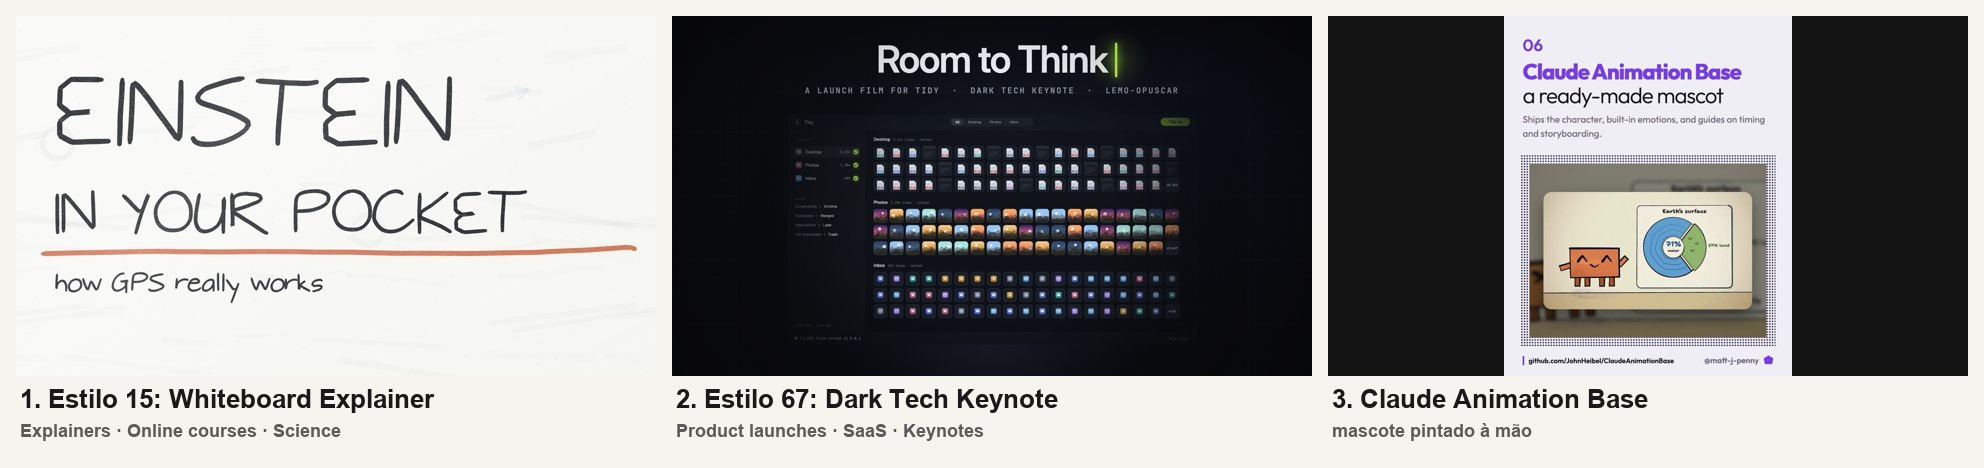
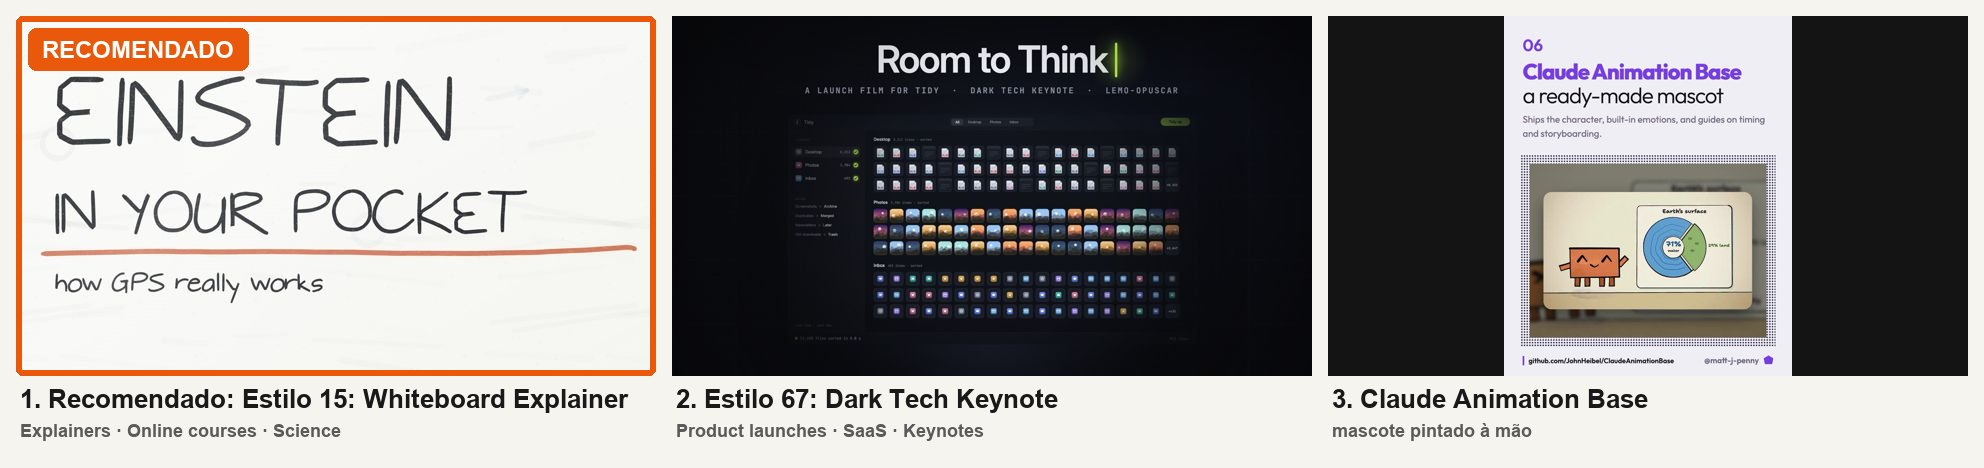
Adiciona HyperFrames, One Take, Collage B-roll e documentário longo
- Três ferramentas novas com imagem e créditos; One Take com aviso de
  licença não comercial e Collage B-roll como opção paga (Gemini)
- Receita de documentário longo com mapas
- 69 prompts da Applied AI citados na skill video-prompts
- A opção 1 das sugestões é sempre a recomendada para o tema

Changed region(s): [[0.0, 0.0299, 0.3438, 0.8974]]

diff --git a/motion_turbo.py b/motion_turbo.py
@@ -49,6 +49,10 @@ FERRAMENTAS = {
     "postprocessing": ("08-react-postprocessing.jpg", "React Postprocessing", "brilho, grão, glitch"),
     "librosa": ("09-librosa.jpg", "librosa", "cortes na batida da música"),
     "shotcraft": ("10-video-shotcraft.jpg", "Video ShotCraft", "promo de produto/app"),
+    "hyperframes": ("11-hyperframes.jpg", "HyperFrames", "textos animados, motion graphics, legendas"),
+    "onetake": ("12-onetake.jpg", "One Take", "lançamento sem cortes (uso não comercial)"),
+    "collage": ("13-collage-broll.jpg", "Collage B-roll", "colagem de papel sob a fala (pago: Gemini)"),
+    "documentario": ("14-documentario-mapas.jpg", "Documentário de mapas", "vídeo longo com mapas animados"),
 }
 POSTER_URL = "https://raw.githubusercontent.com/lemomo-ai/lemo-opuscar/main/styles/{slug}/poster.jpg"
 
@@ -173,6 +177,29 @@ def verificar(a):
     px = (SKILLS / "pixelfx" / "SKILL.md").exists() or "pixelfx@" in plugins
     add("OK" if px else "FALTA", "PixelFX (skill)", "instalado" if px else "não instalado",
         "claude plugin marketplace add patch-gg/pixelfx && claude plugin install pixelfx@pixelfx")
+    hf = (SKILLS / "hyperframes" / "SKILL.md").exists() or "hyperframes@" in plugins
+    add("OK" if hf else "FALTA", "HyperFrames (skill)", "instalado" if hf else "não instalado",
+        "claude plugin marketplace add heygen-com/hyperframes && claude plugin install hyperframes@hyperframes")
+    if hf and tem("node"):
+        _, v = rodar(["node", "-v"])
+        try:
+            if int(v.strip().lstrip("v").split(".")[0]) < 22:
+                add("AVISO", "HyperFrames: Node 22+", f"{v.strip()} instalado; a HyperFrames pede Node 22 ou mais novo")
+        except Exception:
+            pass
+    ot = (SKILLS / "onetake" / "SKILL.md").exists()
+    add("OK" if ot else "FALTA", "One Take (skill)", "instalado (grátis só para uso não comercial)" if ot else "não instalado",
+        "git clone --depth 1 https://github.com/feitangyuan/onetake.git ~/.claude/skills/onetake")
+    if ot:
+        rc, _ = rodar([sys.executable, "-c", "import playwright, matplotlib"])
+        add("OK" if rc == 0 else "FALTA", "One Take: dependências Python", "playwright e matplotlib ok" if rc == 0 else
+            "faltam playwright e/ou matplotlib",
+            f'"{sys.executable}" -m pip install playwright matplotlib && "{sys.executable}" -m playwright install chromium')
+    col = (SKILLS / "gbro-collage-broll" / "SKILL.md").exists()
+    gem = bool(os.environ.get("GEMINI_API_KEY"))
+    add("OK" if col and gem else "DICA", "Collage B-roll (opcional, PAGO)",
+        "instalado e com chave do Gemini" if col and gem else
+        "não instalado de propósito: cobra por vídeo na API do Gemini; só instalar se o usuário aceitar o custo")
     rc, out = rodar(["claude", "mcp", "get", "blender"], timeout=120)
     add("OK" if rc == 0 else "FALTA", "Blender MCP (conector)", "configurado" if rc == 0 else "não configurado",
         "uvx mcp-for-blender setup   (instala o addon no Blender e adiciona o MCP; depois reabrir o app)")
@@ -315,6 +342,10 @@ def mostrar(a):
     from PIL import Image, ImageDraw
     estilos = {e["slug"]: e for e in json.loads((PACOTE / "estilos.json").read_text(encoding="utf-8"))}
     itens = []
+    # a recomendada pode ser uma ferramenta: --primeiro ferramenta coloca as ferramentas antes dos estilos
+    ordem = ["ferramentas", "estilos"] if a.primeiro == "ferramenta" else ["estilos", "ferramentas"]
+    blocos = {"estilos": [], "ferramentas": []}
+    itens = blocos["estilos"]
     for s in a.estilos or []:
         e = estilos.get(s)
         if not e:
@@ -326,7 +357,11 @@ def mostrar(a):
         if f not in FERRAMENTAS:
             print(f"ferramenta desconhecida: {f} (opções: {', '.join(FERRAMENTAS)})"); continue
         arq, nome, desc = FERRAMENTAS[f]
-        itens.append((PACOTE / "imagens" / arq, nome, desc))
+        blocos["ferramentas"].append((PACOTE / "imagens" / arq, nome, desc))
+    itens = blocos[ordem[0]] + blocos[ordem[1]]
+    if itens and not a.sem_recomendado:
+        p0, t0, d0 = itens[0]
+        itens[0] = (p0, f"Recomendado: {t0}", d0)
     if not itens:
         print("nada para mostrar"); return 1
     tw, th, lh, pad = 640, 360, 76, 16
@@ -339,6 +374,10 @@ def mostrar(a):
         im = Image.open(p).convert("RGB")
         im.thumbnail((tw, th)); bg = Image.new("RGB", (tw, th), (20, 20, 20))
         bg.paste(im, ((tw - im.width) // 2, (th - im.height) // 2)); img.paste(bg, (x, y))
+        if i == 0 and not a.sem_recomendado:  # etiqueta da opção recomendada
+            d.rounded_rectangle([x, y, x + tw - 1, y + th - 1], radius=6, outline=(234, 88, 12), width=6)
+            d.rounded_rectangle([x + 12, y + 12, x + 232, y + 54], radius=8, fill=(234, 88, 12))
+            d.text((x + 26, y + 20), "RECOMENDADO", fill=(255, 255, 255), font=fonte(24))
         d.text((x + 4, y + th + 8), f"{i + 1}. {t1}", fill=(25, 25, 25), font=f1)
         d.text((x + 4, y + th + 44), t2, fill=(90, 90, 90), font=f2)
     saida = Path(a.saida or "motion-turbo-sugestoes.jpg").resolve()
@@ -354,6 +393,9 @@ def main():
     m = sub.add_parser("instalar-modelos"); m.add_argument("--repos", required=True)
     s = sub.add_parser("mostrar"); s.add_argument("--estilos", nargs="*"); s.add_argument("--ferramentas", nargs="*")
     s.add_argument("--saida")
+    s.add_argument("--primeiro", choices=["estilo", "ferramenta"], default="estilo",
+                   help="o que vem primeiro (a opção 1 é a recomendada)")
+    s.add_argument("--sem-recomendado", action="store_true", help="não marcar a opção 1 como recomendada")
     a = p.parse_args()
     sys.exit({"verificar": verificar, "instalar-modelos": instalar_modelos, "mostrar": mostrar}[a.cmd](a))
 

diff --git a/SKILL.md b/SKILL.md
@@ -1,11 +1,11 @@
 ---
 name: motion-turbo
-description: Motion Turbo, o kit de 10 ferramentas open source que deixa o motion feito pelo Claude com cara de estúdio (99 estilos de filme do Lemo Opuscar, 3D com Three.js e Blender, física, brilho/glitch, pixel art, mascote pintado à mão, cortes na batida e promos de produto). Use quando pedirem "motion turbo", "/motion-turbo", "quero um vídeo em motion e não sei o estilo", "me sugere um estilo de vídeo", "qual ferramenta uso pra esse vídeo", "mostra os estilos", ou para instalar/verificar o pacote ("instala o motion turbo", "o motion turbo está funcionando?").
+description: Motion Turbo, o kit de ferramentas open source que deixa o motion feito pelo Claude com cara de estúdio (99 estilos de filme do Lemo Opuscar, HyperFrames, One Take, 3D com Three.js e Blender, física, brilho/glitch, pixel art, mascote pintado à mão, cortes na batida, promos de produto, colagem B-roll e documentário longo com mapas). Use quando pedirem "motion turbo", "/motion-turbo", "quero um vídeo em motion e não sei o estilo", "me sugere um estilo de vídeo", "qual ferramenta uso pra esse vídeo", "mostra os estilos", ou para instalar/verificar o pacote ("instala o motion turbo", "o motion turbo está funcionando?").
 ---
 
 # Motion Turbo
 
-Kit que junta 10 repositórios open source para fazer vídeos em motion com o Claude. O trabalho desta skill é **ser a porta de entrada**: entender o tema, sugerir o caminho e o estilo, mostrar imagens das opções e só então passar para a skill que executa.
+Kit que junta 13 ferramentas open source (as 10 do post original, mais HyperFrames, One Take e Collage B-roll) e receitas, como o documentário longo com mapas, para fazer vídeos em motion com o Claude. O trabalho desta skill é **ser a porta de entrada**: entender o tema, sugerir o caminho e o estilo, mostrar imagens das opções e só então passar para a skill que executa.
 
 ## Fale com quem não é técnico
 
@@ -52,7 +52,13 @@ Se o projeto atual tiver identidade visual ou regras (CLAUDE.md, memórias), use
 
 ## 3. Sugerir 3 opções
 
-Monte **3 opções diferentes entre si** (não três variações do mesmo). Cada opção = caminho + estilo + por que combina, em 1 a 2 linhas. Use esta tabela para escolher o caminho:
+**Sempre recomende o melhor estilo para o tema.** Monte **3 opções diferentes entre si** (não três variações do mesmo), e a **opção 1 é sempre a sua recomendação**, marcada como "Recomendado", com o motivo em uma frase ("combina com o tema porque..."). As outras duas são alternativas reais (outro tom, outro caminho). Cada opção = caminho + estilo + por que combina, em 1 a 2 linhas.
+
+- Para escolher a recomendada, pese: o que o tema pede (explicar, vender, emocionar), a plataforma e a duração, o material que a pessoa tem (telas, voz, marca), a licença e o custo (prefira o grátis) e o tempo de render.
+- Se a pessoa já disse um estilo, respeite. Mas, se outro combinar claramente melhor com o tema, diga em uma frase e deixe ela decidir ("posso fazer em X como você pediu; para esse tema, Y costuma funcionar melhor porque...").
+- Se ela disser "escolhe você", siga direto com a recomendada, sem perguntar de novo.
+
+Use esta tabela para escolher o caminho:
 
 | Objetivo / tema | Caminho (skill que executa) | Estilos do Lemo que costumam combinar |
 |---|---|---|
@@ -62,6 +68,10 @@ Monte **3 opções diferentes entre si** (não três variações do mesmo). Cada
 | Notícia, geopolítica, clima, mapa | `lemo-opuscar` | `caption-news`, `news-package`, `map-explainer`, `satellite-briefing`, `comic-history` |
 | História, época, curiosidade histórica | `lemo-opuscar` | `newsreel`, `vintage-collage`, `archive-lighttable`, `dark-documentary`, `silent-film` |
 | Lançar app/SaaS/site | `video-shotcraft` (+ `librosa` para cortar na batida) | `dark-keynote`, `desktop-flythrough`, `living-screencast`, `hologram-hud` |
+| Lançamento "sem cortes", câmera contínua, demo de recurso | `onetake` (**só uso não comercial**, ver abaixo) | — |
+| Textos animados, legendas, motion graphics sobre um vídeo falado, vinhetas | `hyperframes` | — |
+| B-roll artístico de colagem de papel por baixo da fala | `gbro-collage-broll` (**pago**: Gemini; só com ok) | — |
+| Documentário longo (10 a 60 min) de história ou geografia | receita "Documentário longo com mapas" (abaixo) | `map-explainer`, `comic-history`, `dark-documentary`, `newsreel` |
 | Lançar produto físico / beleza / tech | `video-shotcraft` ou `lemo-opuscar` | `glass-product`, `teardown`, `dark-keynote` |
 | História fofa, infantil, mascote | `claude-animation-base` (Clawd) ou `lemo-opuscar` | `crayon-book`, `paper-popup`, `firefly-pointillism`, `rubber-hose` |
 | Emoção, música, arte, viagem | `lemo-opuscar` (+ `librosa`) | `impasto`, `watercolor`, `ukiyoe`, `silhouette-rhythm`, `double-exposure` |
@@ -82,8 +92,8 @@ python ~/.claude/skills/motion-turbo/motion_turbo.py mostrar \
   --saida "<pasta-de-trabalho>/motion-turbo-sugestoes.jpg"
 ```
 - `--estilos`: slugs do `estilos.json` (usa o pôster do estilo).
-- `--ferramentas`: `lemo`, `threejs`, `pixelfx`, `blender`, `prompts`, `clawd`, `rapier`, `postprocessing`, `librosa`, `shotcraft` (usa a imagem da ferramenta).
-- A imagem numera as opções 1, 2, 3 na ordem passada. Mantenha a mesma numeração no texto.
+- `--ferramentas`: `lemo`, `threejs`, `pixelfx`, `blender`, `prompts`, `clawd`, `rapier`, `postprocessing`, `librosa`, `shotcraft`, `hyperframes`, `onetake`, `collage`, `documentario` (usa a imagem da ferramenta).
+- A imagem numera as opções 1, 2, 3 na ordem: primeiro os `--estilos`, depois as `--ferramentas`. **Passe a recomendada primeiro**: ela sai com a etiqueta "RECOMENDADO". Se a recomendada for uma ferramenta (ex.: `onetake`), use `--primeiro ferramenta`. Mantenha a mesma numeração no texto.
 
 Mostre a imagem ao usuário com a ferramenta de enviar/exibir arquivos que a sessão tiver. Se não houver nenhuma, abra a imagem você mesmo para conferir e informe o caminho clicável. Junto, escreva para cada opção:
 - **Nome em português** do estilo + caminho (qual skill vai fazer).
@@ -100,12 +110,31 @@ Passe para a skill do caminho escolhido e siga as regras dela:
 |---|---|
 | Estilos de filme | `lemo-opuscar` (diga o estilo escolhido pelo nome/slug) |
 | Promo de produto/app | `video-shotcraft` |
+| Lançamento sem cortes | `onetake` |
+| Textos animados, legendas, motion graphics em HTML | `hyperframes` (+ `hyperframes-cli`, `hyperframes-registry`) |
+| Colagem B-roll | `gbro-collage-broll` (só depois do ok do custo) |
+| Documentário longo | receita abaixo |
 | Mascote pintado à mão | `claude-animation-base` |
 | Pixel art / efeitos | `pixelfx` |
 | 3D com física, brilho, grão | `r3f-fisica-pos` (+ Three.js no projeto) |
 | Cena no Blender | skills de Blender + MCP `blender` |
 | Ideias/prompts prontos | `video-prompts` |
 | Cortes na batida | `librosa` (Python): `librosa.beat.beat_track` na música, e use os tempos das batidas para os cortes |
+
+### Licenças e custos que exigem pergunta antes
+
+- **One Take:** grátis só para **uso não comercial** (licença PolyForm Noncommercial). Antes de usar, pergunte: "esse vídeo é para cliente, empresa ou venda?". Se for, diga que o uso comercial pede a licença **onetake Pro (US$ 79, pagamento único, onetakemotion.com)** e ofereça como alternativa grátis `video-shotcraft` ou `hyperframes`.
+- **Collage B-roll:** cada vídeo é gerado pela API do **Gemini** e **cobrado por uso** na conta Google do usuário. Ela também foi feita para o Codex, que gera as imagens paradas com uma ferramenta própria; no Claude, essa etapa precisa de outro gerador de imagem (também pode ser pago). Explique isso, dê a estimativa de custo e só instale ou use com o ok. A chave `GEMINI_API_KEY` é configurada pelo próprio usuário, nunca colada no chat.
+
+## Receita: documentário longo com mapas (10 a 60 min)
+
+Inspirada no fluxo "um tema, um documentário de 1 hora" (@classified.ai). Bom para história, geopolítica e geografia.
+1. **Um tema** ("Como o Império Otomano ficou tão grande?"). Pergunte duração, idioma, formato (16:9 para YouTube) e o tom.
+2. **Pesquisa e roteiro:** linha do tempo, batalhas, personagens e mapas. Divida em **capítulos de 3 a 6 min** e cada capítulo em cenas de 10 a 30 s. Mostre o roteiro e espere o ok. Cite fontes no fim do roteiro.
+3. **Cada cena em código:** mapa animado (fronteiras crescendo, exércitos em setas, ano no canto, retratos em círculo). Use o estilo `map-explainer` ou `comic-history` do `lemo-opuscar`, ou a `hyperframes` com mapas e legendas. Faça uma cena de amostra parada e espere o ok do visual.
+4. **Narração:** a voz do próprio usuário (gravada pelo celular) ou narração local grátis (voz do Lemo). Voz profissional paga só com ok do custo. Legende com Whisper.
+5. **Ajustes em uma frase:** "deixa o mapa noturno", "mais lento no capítulo 3". Mude o estilo global e renderize de novo só o que mudou.
+6. **Render por capítulo** (um MP4 por capítulo, depois junta com ffmpeg). Um vídeo de 1 hora tem ~108 mil quadros: avise que pode levar horas e rode em segundo plano.
 
 ## 6. Sugerir o que falta para um vídeo melhor
 
@@ -128,6 +157,7 @@ O vídeo fica muito melhor com material do próprio cliente e com alguns extras 
 - **Trilha gerada grátis** (música do Lemo) quando não há música.
 - **Legendas automáticas** (Whisper) quando há narração; vídeo curto de rede social quase sempre ganha com legenda.
 - **Blender** só se a escolha for cena 3D realista.
+- **Collage B-roll** (pago) quando a pessoa tem vídeo falando para a câmera e quer cortes artísticos por cima.
 - **Sem placa de vídeo dedicada:** avise que estilos de aquarela e 3D pesado demoram mais e ofereça um teste curto ou um estilo mais leve.
 
 Como sugerir: "Para ficar ainda melhor, posso **[extra]** ([ganho]). É grátis e leva uns [tempo] para instalar. Quer?" Só instale com o sim da pessoa. Tudo que for pago (voz profissional, imagem ou vídeo gerado por serviço externo) exige dizer o serviço e o custo e esperar o ok.

diff --git a/README.md b/README.md
@@ -2,7 +2,7 @@
 
 > **Novo por aqui e não é da área técnica?** Comece pelo [COMECE-AQUI.md](COMECE-AQUI.md).
 
-**10 ferramentas open source que deixam o motion feito pelo Claude com cara de estúdio.**
+**13 ferramentas open source e receitas que deixam o motion feito pelo Claude com cara de estúdio.**
 
 São estilos de filme prontos, 3D de verdade, física, brilho e glitch, pixel art, um mascote pintado à mão, cortes no ritmo da música e receitas de vídeo de lançamento. Tudo grátis, rodando no seu computador, disponível em qualquer sessão do Claude Code.
 
@@ -14,7 +14,7 @@ Abra qualquer sessão e diga:
 
 O Claude então:
 1. **Pergunta o tema**, o objetivo (explicar, vender, contar história), o formato (vertical ou horizontal) e a duração.
-2. **Sugere 3 caminhos** diferentes, cada um com o estilo e o motivo.
+2. **Sugere 3 caminhos** diferentes, cada um com o estilo e o motivo. A opção 1 é sempre **a recomendada para o seu tema** (etiqueta RECOMENDADO).
 3. **Mostra uma imagem** com as 3 opções numeradas, para você escolher olhando.
 4. Com a sua escolha, **chama a ferramenta certa**, mostra roteiro e um quadro parado e só depois renderiza.
 
@@ -85,6 +85,32 @@ Encontra as batidas da música e sincroniza os cortes com elas. É o que dá a "
 O Claude escolhe o melhor modelo para o lançamento do seu app ou site, usa telas reais, sincroniza com a música e põe efeitos sonoros.
 **Peça:** "um vídeo de lançamento de 20s do meu site". · [repo](https://github.com/Vincentwei1021/video-shotcraft)
 
+### 11 · HyperFrames: vídeo a partir de HTML
+![HyperFrames](imagens/11-hyperframes.jpg)
+*Imagem: do repositório da HyperFrames (HeyGen, Apache 2.0). Créditos completos em [CREDITOS.md](CREDITOS.md).*
+Textos animados, motion graphics, legendas e vinhetas, inclusive por cima de um vídeo seu falando. É o "editor" mais versátil do kit.
+**Peça:** "coloca títulos animados e legendas no meu vídeo falando". · [repo](https://github.com/heygen-com/hyperframes)
+
+### 12 · One Take: lançamento sem cortes
+![One Take](imagens/12-onetake.jpg)
+*Imagem: quadros do filme de lançamento do One Take (feitangyuan). Créditos completos em [CREDITOS.md](CREDITOS.md).*
+Um filme em que a câmera nunca corta: cada cena nasce da anterior. Ótimo para lançamento de app e demonstração de recurso.
+**Licença:** grátis só para **uso não comercial**. Para cliente ou empresa, existe a licença Pro (US$ 79, pagamento único).
+**Peça:** "um vídeo de 20s sem cortes mostrando o meu app". · [repo](https://github.com/feitangyuan/onetake)
+
+### 13 · Collage B-roll: colagem de papel por baixo da fala (opcional, pago)
+![Collage B-roll](imagens/13-collage-broll.jpg)
+*Imagem: demos do repositório gbro-collage-broll (pyang5166, MIT). Créditos completos em [CREDITOS.md](CREDITOS.md).*
+Você passa uma frase do roteiro e ela vira uma colagem animada de papel e foto, para pôr por baixo da sua fala.
+**Custo:** usa a API do Gemini, cobrada por vídeo. O Claude avisa o custo e só instala com o seu ok.
+**Peça:** "transforma essa frase numa colagem animada de 5s". · [repo](https://github.com/pyang5166/gbro-collage-broll)
+
+### 14 · Receita: documentário longo com mapas
+![Documentário com mapas](imagens/14-documentario-mapas.jpg)
+*Imagem: slides do carrossel de Nitin Chougale ([@classified.ai](https://www.instagram.com/p/DfbleGMiSJm/)). Créditos completos em [CREDITOS.md](CREDITOS.md).*
+Um tema vira um documentário de 10 a 60 minutos: pesquisa, roteiro por capítulos, mapas animados em código, narração com a sua voz ou voz local e render por capítulo.
+**Peça:** "um documentário de 20 minutos sobre como o Império Otomano cresceu".
+
 ## Os 99 estilos do Lemo Opuscar
 
 ![Catálogo de estilos](imagens/catalogo-estilos-lemo.jpg)
@@ -96,7 +122,8 @@ O pôster de cada estilo está em `imagens/estilos/<nome>.jpg`, e a lista comple
 
 1. **Estilo e ideia:** Lemo Opuscar, prompt packs, PixelFX, Clawd.
 2. **Cena 3D e efeitos:** Three.js, Blender MCP, React Rapier, React Postprocessing.
-3. **Ritmo e entrega:** librosa e Video ShotCraft, até o MP4 final.
+3. **Ritmo e entrega:** librosa, Video ShotCraft, HyperFrames e One Take, até o MP4 final.
+4. **Extras:** Collage B-roll (pago) e a receita de documentário longo.
 
 ## Instalação
 
@@ -116,6 +143,7 @@ python ~/.claude/skills/motion-turbo/motion_turbo.py verificar
 
 Este pacote só organiza e instala ferramentas de outras pessoas. Todo o crédito vai para elas:
 - **Ferramentas:** os autores de cada repositório linkado acima.
+- **Imagens 11–14:** HyperFrames (HeyGen), One Take (feitangyuan), gbro-collage-broll (pyang5166) e carrossel de Nitin Chougale ([@classified.ai](https://www.instagram.com/p/DfbleGMiSJm/)). Ferramentas 11–13 apresentadas no reel de [Fabiano Carvalho](https://www.instagram.com/reel/Dff5HhgDeZM/); mais prompts em [Applied AI](https://www.its-applied-ai.com/r/styles).
 - **Lista das 10 ferramentas e imagens 01–10:** carrossel de **Matt Penny** ([@matt_penny_applied_ai](https://www.instagram.com/p/DftA9zwk4Re/)).
 - **Pôsteres e catálogo de estilos:** Lemo-Opuscar © 2026 Lemomo (LemoLab), CC BY 4.0.
 - **Clawd** (o personagem laranja) é da Anthropic.

diff --git a/CREDITOS.md b/CREDITOS.md
@@ -17,6 +17,9 @@ O Motion Turbo é só um guia e um instalador. As ferramentas, as imagens e os e
 | React Postprocessing | Poimandres (pmndrs) | https://github.com/pmndrs/react-postprocessing |
 | librosa | equipe librosa | https://github.com/librosa/librosa |
 | Video ShotCraft | Vincentwei1021 | https://github.com/Vincentwei1021/video-shotcraft |
+| HyperFrames | HeyGen (Apache 2.0) | https://github.com/heygen-com/hyperframes |
+| One Take | Patrick (feitangyuan); PolyForm Noncommercial 1.0.0, uso comercial pela licença onetake Pro | https://github.com/feitangyuan/onetake |
+| gbro-collage-broll | pyang5166 (MIT) | https://github.com/pyang5166/gbro-collage-broll |
 
 ## Imagens das ferramentas (`imagens/01-…jpg` a `imagens/10-…jpg`)
 
@@ -25,6 +28,15 @@ São quadros do carrossel **"10 GitHub repos to 10x your AI motion graphics"**, 
 Todos os direitos são do autor. Elas aparecem aqui só para ilustrar e dar referência, com crédito e link para o post original. Foi esse post que reuniu a lista das 10 ferramentas.
 
 Os vídeos de demonstração dentro desses quadros foram feitos com as ferramentas listadas acima. O personagem laranja (Clawd) que aparece na imagem 06 é da Anthropic.
+
+## Imagens 11 a 14 e fontes da segunda leva
+
+- `imagens/11-hyperframes.jpg`: quadro do GIF de apresentação do repositório HyperFrames, © HeyGen, Apache 2.0.
+- `imagens/12-onetake.jpg`: quadros do filme de lançamento do One Take (`assets/hero.gif`), © Patrick (feitangyuan), material do repositório sob PolyForm Noncommercial 1.0.0.
+- `imagens/13-collage-broll.jpg`: último quadro dos 4 GIFs de demonstração do gbro-collage-broll, © pyang5166, MIT.
+- `imagens/14-documentario-mapas.jpg`: slides 1, 5 e 7 do carrossel "Make 1-hour documentaries with Claude Code", de **Nitin Chougale (@classified.ai)**: https://www.instagram.com/p/DfbleGMiSJm/ . Todos os direitos são do autor; aparecem aqui só como referência, com crédito.
+- HyperFrames, One Take e Collage B-roll foram apresentadas no reel de **Fabiano Carvalho (@fabianocarvalhojr)**: https://www.instagram.com/reel/Dff5HhgDeZM/
+- A página **"69 Claude Animation Styles"** da **Applied AI** (https://www.its-applied-ai.com/r/styles) está citada na skill `video-prompts` como fonte de prompts. Nada dela foi copiado para este repositório.
 
 ## Pôsteres dos estilos (`imagens/estilos/*.jpg` e `imagens/catalogo-estilos-lemo.jpg`)
 

diff --git a/COMECE-AQUI.md b/COMECE-AQUI.md
@@ -41,7 +41,7 @@ Numa conversa nova, escreva algo como:
 
 O Claude vai:
 1. **Fazer até 4 perguntas rápidas:** o tema, o objetivo (explicar, vender, contar uma história), o formato (vertical para Reels/Shorts ou horizontal) e se você tem logo, cores, narração ou música.
-2. **Sugerir 3 caminhos diferentes**, cada um com um estilo e o motivo.
+2. **Sugerir 3 caminhos diferentes**, cada um com um estilo e o motivo. A **opção 1 é sempre a que ele recomenda** para o seu tema (marcada como RECOMENDADO). Se você não souber escolher, é só dizer "escolhe você".
 3. **Mostrar uma imagem** com as 3 opções numeradas, para você escolher olhando:
 
    ![Exemplo de sugestões](imagens/exemplo-sugestoes.jpg)
@@ -58,6 +58,9 @@ O Claude vai:
 - "Faz um vídeo fofo com um mascote explicando por que o céu é azul."
 - "Quero um vídeo estilo videogame retrô sobre a história do meu negócio."
 - "Me dá ideias de vídeo para o meu perfil de receitas."
+- "Coloca títulos animados e legendas no meu vídeo falando." (HyperFrames)
+- "Um vídeo de lançamento sem cortes, a câmera sempre andando." (One Take, grátis só para uso não comercial)
+- "Um documentário de 15 minutos sobre a história do Egito com mapas."
 - "O Motion Turbo está funcionando?"
 
 ## Para o vídeo ficar ainda melhor
@@ -72,6 +75,8 @@ O Claude vai sugerir isso quando fizer sentido. Você também pode já mandar ju
 | **Sua voz gravada** (pelo celular mesmo) | narração com a sua voz; o Claude pode legendar |
 | **Prints ou o link** do seu app ou site | vídeo de lançamento com as telas reais |
 | **Um vídeo de referência** de que você gosta | um estilo mais parecido com o que você imagina |
+
+Uma ferramenta **paga e opcional**: a **Collage B-roll** (colagem de papel animada por baixo da sua fala), que cobra por vídeo no Gemini. O Claude só instala se você aceitar o custo.
 
 Opcionais que o Claude pode instalar se você quiser (todos grátis): **narração por voz sintetizada**, **trilha sonora gerada**, **legendas automáticas** e o **Blender** (para cenas 3D realistas).
 

diff --git a/INSTALAR.md b/INSTALAR.md
@@ -51,6 +51,9 @@ Saída: uma linha por peça, com `OK`, `FALTA`, `AVISO`, `INFO` ou `DICA`, e o c
 | Peça | Como instalar (só se FALTA) | Observação |
 |---|---|---|
 | Lemo Opuscar | `claude plugin marketplace add lemomo-ai/lemo-opuscar` e depois `claude plugin install lemo-opuscar@lemolab` | Plugin oficial. No primeiro uso ele baixa a biblioteca (~15 MB) em `~/lemo-opuscar`. |
+| HyperFrames | `claude plugin marketplace add heygen-com/hyperframes` e depois `claude plugin install hyperframes@hyperframes` | Se já houver `~/.claude/skills/hyperframes`, conta como instalado: não duplique. Pede Node 22+. |
+| One Take | `git clone --depth 1 https://github.com/feitangyuan/onetake.git ~/.claude/skills/onetake` e depois `python -m pip install playwright matplotlib` e `python -m playwright install chromium` | Grátis só para uso não comercial: avise o usuário disso ao instalar. O Chromium baixa ~150 MB. |
+| Collage B-roll | **não instalar automaticamente** | É paga (API do Gemini, cobrada por vídeo) e feita para o Codex. Só com o ok do usuário depois de explicar o custo: `git clone --depth 1 https://github.com/pyang5166/gbro-collage-broll.git ~/.claude/skills/gbro-collage-broll`. A chave `GEMINI_API_KEY` o próprio usuário configura; nunca pedir no chat. |
 | Video ShotCraft | `git clone --depth 1 https://github.com/Vincentwei1021/video-shotcraft.git ~/.claude/skills/video-shotcraft` | Só se a pasta não existir. |
 | PixelFX | `claude plugin marketplace add patch-gg/pixelfx` e depois `claude plugin install pixelfx@pixelfx` | Se já houver `~/.claude/skills/pixelfx`, conta como instalado: não instale o plugin em duplicidade. |
 | Blender MCP | `uvx mcp-for-blender setup` | Mexe no Blender e na configuração dos apps (faz `.bak` sozinho). **Pergunte antes** e peça para o usuário reabrir o app e o Blender depois. Se já existir um MCP `blender`, não mexa. |

diff --git a/modelos/video-prompts/SKILL.template.md b/modelos/video-prompts/SKILL.template.md
@@ -9,6 +9,14 @@ Dois repos clonados em `{{REPOS}}`:
 - `awesome-opus5-5-videos` (yihui-dev): ~700 prompts de vídeos virais, com categoria e tags técnicas. Dados em `data/videos.json`, um `.md` por prompt em `prompts/`.
 - `opus-video-prompts` (joeseesun): 54 casos comentados em `prompts/NN-*.md` (launch de startup, explainer de negócio, promo de app em Remotion, line art, pixel art, Three.js...).
 
+## Fonte extra online: 69 estilos da Applied AI
+
+https://www.its-applied-ai.com/r/styles reúne 69 prompts prontos de animação com o Claude, cada um com trechos `[entre colchetes]` para trocar pelo seu tema. Quase todos usam as ferramentas do Motion Turbo (Lemo, Three.js, Blender, Rapier, PixelFX, HyperFrames). O que ele acrescenta:
+- séries feitas na HyperFrames: "mundos de avião de papel" e "lançamento de foguete", em ~10 estilos cada (comic, PS2, claymation, Lego, chalkboard...);
+- um prompt único com `{STYLE}` que gera 10 visuais em Canvas 2D (fur, synthwave, thermal, matrix, CRT, blueprint...).
+
+Use quando o usuário quiser mais ideias de estilo. Leia a página na hora (ela muda) e cite a fonte (Applied AI). Os prompts não recriam o original pixel a pixel.
+
 ## Buscar
 
 ```bash
